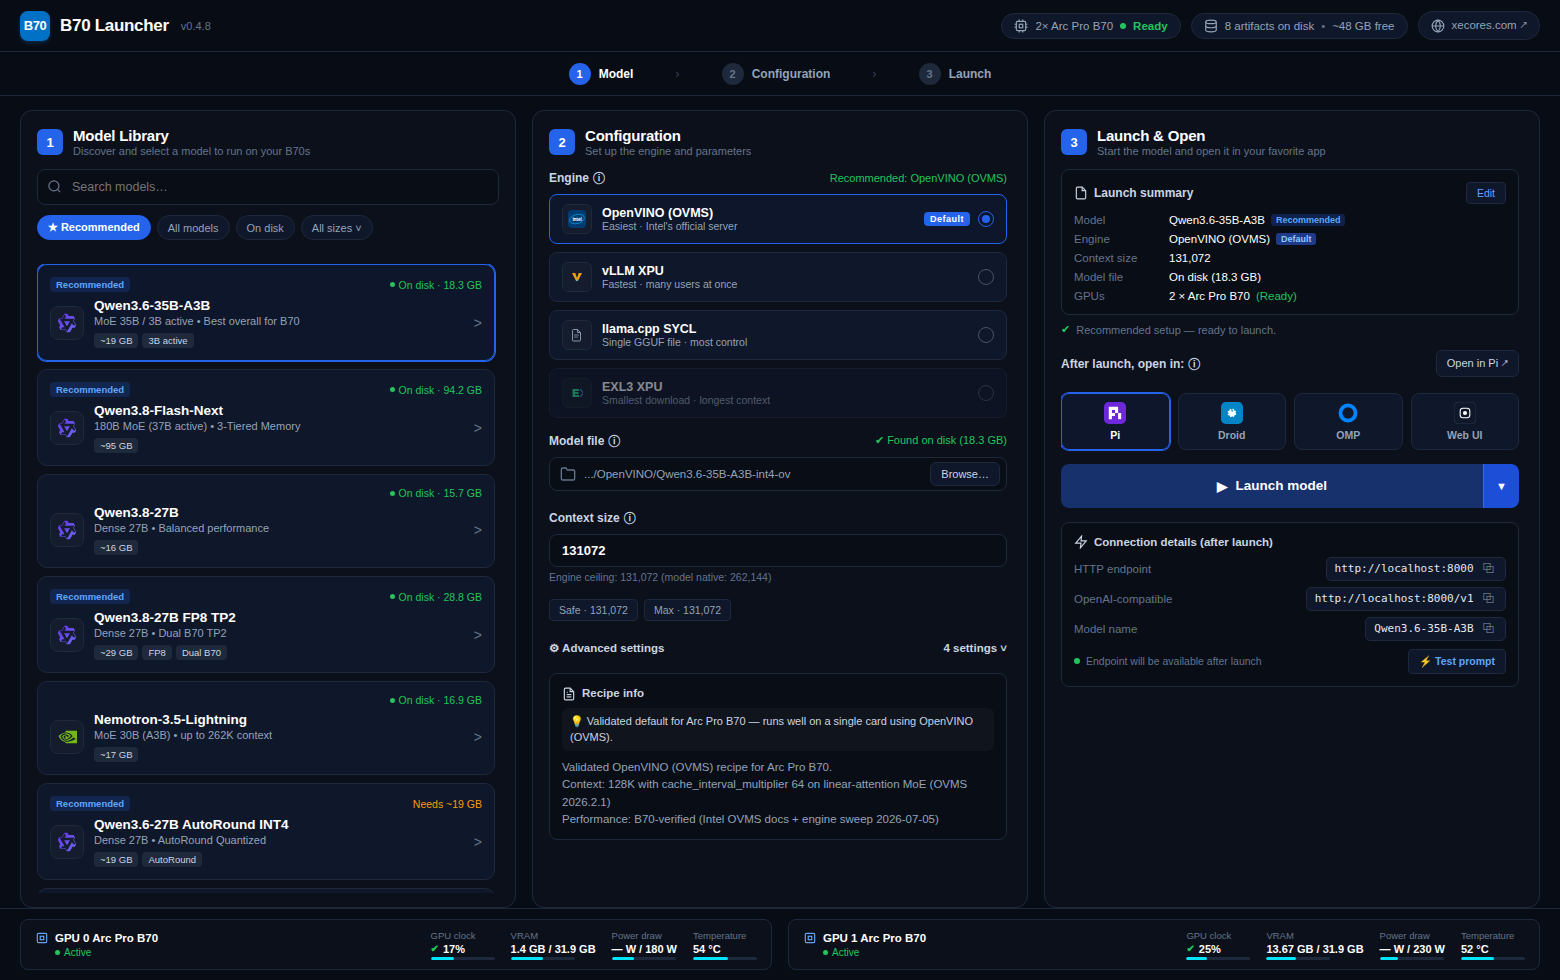
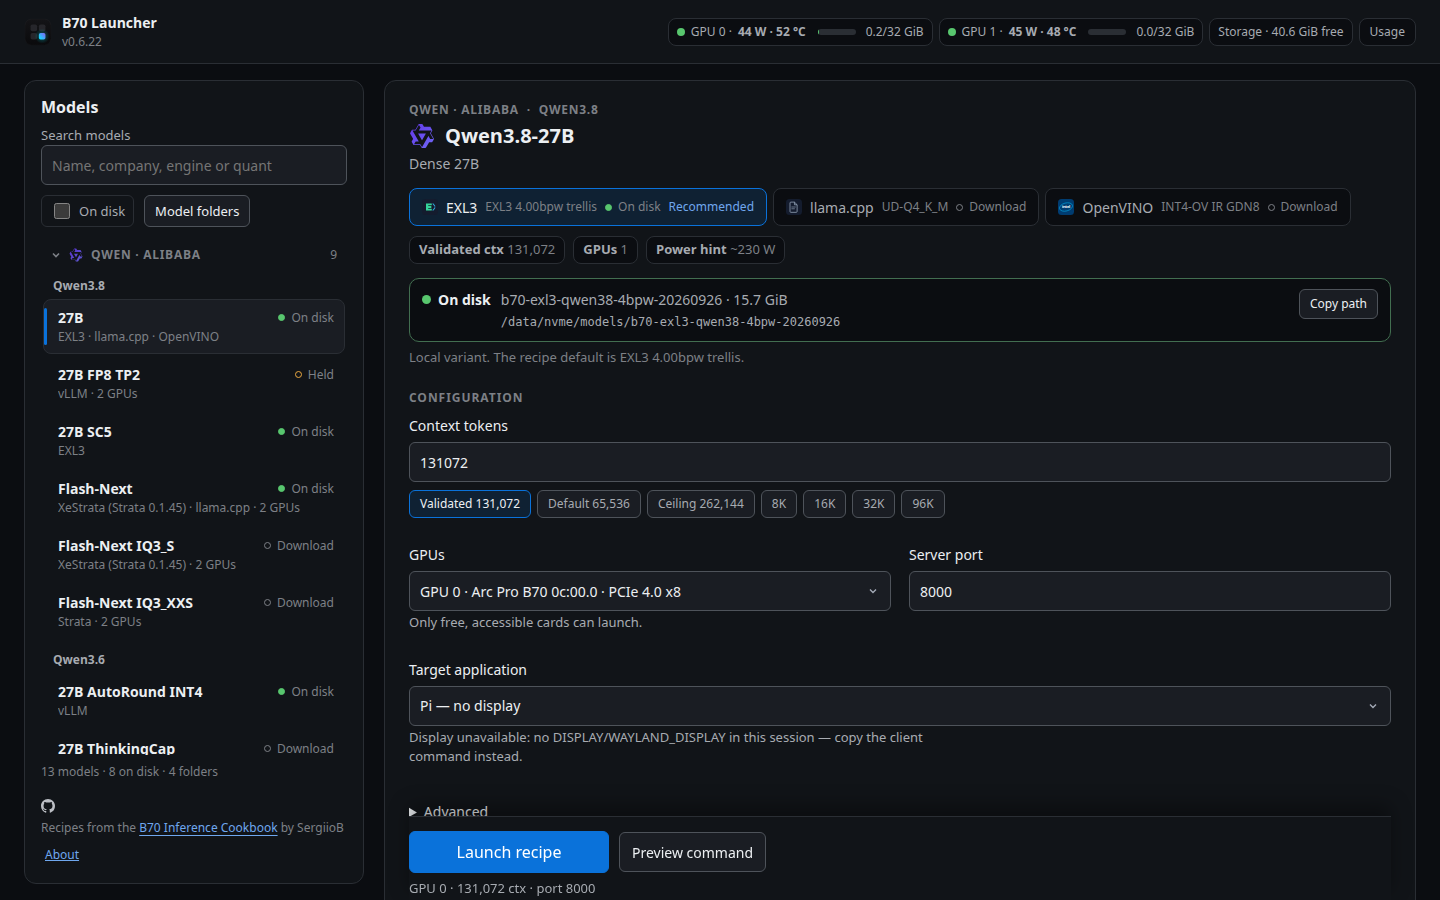
release: 0.6.22
Storage manager, per-request speed and energy telemetry, reviewed first run,
portable XeStrata recipes, installer next steps, honest first-load estimates,
security hardening of the new delete path, idle-card fix. See README
'What is new in 0.6.22'. Refreshes release/screenshots step1-3 from the 0.6.22 UI.

Revert: git revert this commit (and do not tag).

diff --git a/b70launcher/paths.py b/b70launcher/paths.py
@@ -11,7 +11,7 @@ import sys
 import tempfile
 from pathlib import Path
 
-VERSION = "0.6.21"  # single authority — release.py asserts it matches
+VERSION = "0.6.22"  # single authority — release.py asserts it matches
 
 IS_WIN = os.name == "nt"
 

diff --git a/README.md b/README.md
@@ -10,7 +10,7 @@
   <a href="https://github.com/SergiioB/b70-launcher/actions/workflows/test.yml"><img src="https://github.com/SergiioB/b70-launcher/actions/workflows/test.yml/badge.svg" alt="Tests"></a>
 </p>
 
-# B70 Launcher 0.6.21 (Linux source)
+# B70 Launcher 0.6.22 (Linux source)
 
 Local desktop launcher for LLM inference on the Intel Arc Pro B70. Model library → recipe pick (vLLM XPU / llama.cpp SYCL / OpenVINO / EXL3) → inspect the exact command → launch & test. Pure Python stdlib — no pip install, no bundled binaries.
 
@@ -55,6 +55,16 @@ b70 agent pi                 # open an agent on it: pi, omp, droid, codex or dee
 b70 usage                    # tokens per agent, today and all time
 b70 stop                     # stop the model
 ```
+
+## What is new in 0.6.22
+
+- **Storage manager.** Click Storage in the header (or run `b70 storage`) to see free space on every disk, then every model, unfinished download and pinned engine image with its exact size, the recipes that use it and when you last launched it. `b70 rm` and the dialog delete by id, never by path, and refuse anything a running server or container uses, anything outside your model folders, and Docker images no recipe pins. Models are deleted, not moved to a trash.
+- **Speed and energy per request.** Every request an agent sends through the launcher is recorded with its time to first token, decode tokens per second after the first token, prefill rate and the energy the card drew. Usage and `b70 usage` show the medians per model. The Test prompt speed is now labelled end to end, because it included the wait for the first token.
+- **Reviewed first run.** The catalog carries `first_run` (Qwen3.8-27B on EXL3). `b70 doctor` suggests it, and the old "best default" badge is gone from Qwen3.6-35B.
+- **Portable XeStrata recipes.** The catalog no longer contains the author's machine paths. Set `xestrata_root` in settings (and `model_path` for the pack you downloaded); a launch preview names whatever is missing.
+- **Installer prints the next steps.** After the install it shows `b70 doctor`, `b70 list` and the first-run launch command.
+- **Honest first-load estimate.** The session card shows the last measured load time for a recipe, or says that a first load compiles kernels and usually takes several minutes. The Context box follows the running session.
+- **Fixes.** An idle card no longer reads 100% busy. Scan folders can no longer be a system folder or your home's parent. The update notice opens `xecores.com/start#install-launcher`. Launch errors name the field and range that is wrong.
 
 ## What is new in 0.6.21
 
@@ -334,9 +344,9 @@ curl -fsSL https://xecores.com/downloads/get.sh | sh
 
 Or inspect-first, manually:
 
-1. Verify the archive with the separately supplied SHA256 checksum: `sha256sum -c b70-launcher-0.6.21-linux-source.tar.gz.sha256`.
-2. Extract it: `tar -xzf b70-launcher-0.6.21-linux-source.tar.gz`.
-3. Inspect `launcher.py`, `cli.py`, `b70launcher/`, `webwindow.py`, `recipes.json`, `settings.json`, and `packaging/install.sh`; run `sh b70-launcher-0.6.21-linux-source/packaging/install.sh` if satisfied. Installer copies the inspectable source to `~/.local/share/b70-launcher`, adds `~/.local/bin/b70-launcher` and `~/.local/bin/b70`, and a desktop entry in `~/.local/share/applications` (XDG_DATA_HOME is honored for the app and entry). No root access or global system changes. Start from your application menu or run `~/.local/bin/b70-launcher`; headless use starts with `b70 list`.
+1. Verify the archive with the separately supplied SHA256 checksum: `sha256sum -c b70-launcher-0.6.22-linux-source.tar.gz.sha256`.
+2. Extract it: `tar -xzf b70-launcher-0.6.22-linux-source.tar.gz`.
+3. Inspect `launcher.py`, `cli.py`, `b70launcher/`, `webwindow.py`, `recipes.json`, `settings.json`, and `packaging/install.sh`; run `sh b70-launcher-0.6.22-linux-source/packaging/install.sh` if satisfied. Installer copies the inspectable source to `~/.local/share/b70-launcher`, adds `~/.local/bin/b70-launcher` and `~/.local/bin/b70`, and a desktop entry in `~/.local/share/applications` (XDG_DATA_HOME is honored for the app and entry). No root access or global system changes. Start from your application menu or run `~/.local/bin/b70-launcher`; headless use starts with `b70 list`.
 
 Python 3.9+ is required for the UI; `python3-gi` with a WebKitGTK typelib (`gir1.2-webkit2-4.1`, `gir1.2-webkit2-4.0`, or GTK4 `webkit-6.0`) enables the native app window; without it the UI opens in your default browser. To actually launch a GPU engine, install a compatible Linux Intel GPU driver, accessible DRM render nodes, Docker daemon/CLI with Intel GPU support and permission to use it, adequate disk/VRAM, and a valid model artifact. Docker access is effectively root-equivalent; do not grant it to untrusted users. Docker is required by the launch preflight even for the native `llama_bin` path — no Docker CLI and accessible local socket, no launch. The UI shows render-node identification, per-card VRAM/power and basic blockers before launch. A preflight success does **not** certify an engine, quantization, context size, power budget, or card topology. No engine starts at installation or first opening. The launcher never pulls engine images: a launch whose pinned image is missing stops with the exact `docker pull` command to run after you check free disk space (for Strata's locally built image, the `docker build` command instead). Containers see only the selected card(s). Some recipe images use mutable tags.
 
